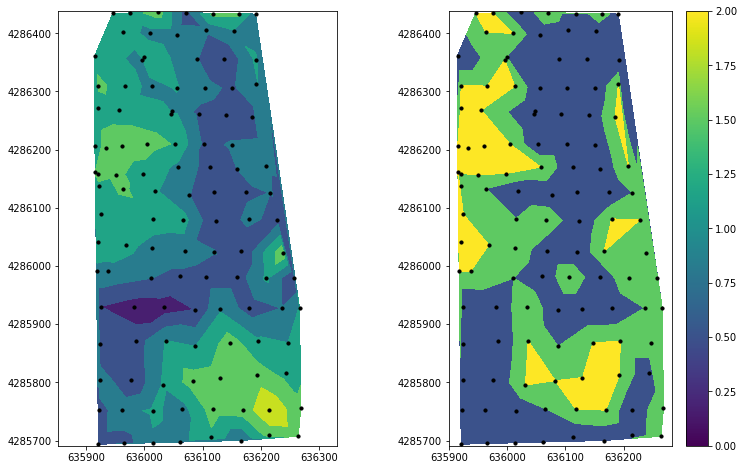
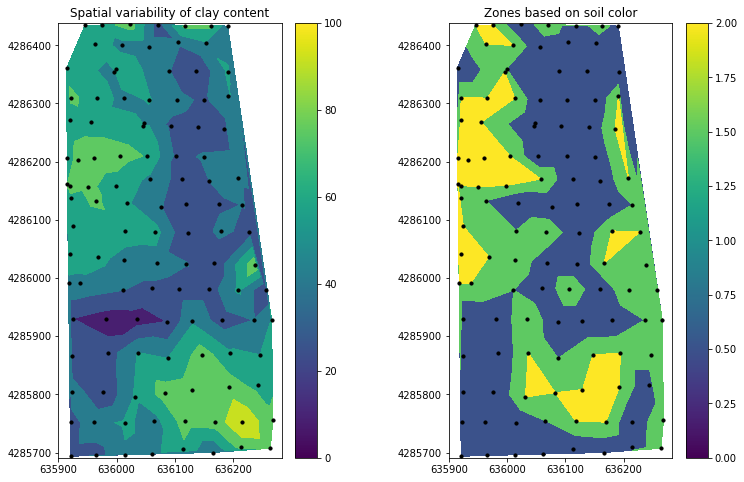
Updated field management zones

diff --git a/docs/field_management_zones.md b/docs/field_management_zones.md
@@ -314,7 +314,7 @@ X.head()
 
 ```python
 # Clustering
-k_zones = 3
+k_zones = 3 # An arbitrary but reasonable number of field management zones.
 y_pred = KMeans(n_clusters=k_zones, random_state=0).fit_predict(X)
 print(y_pred)
 
@@ -532,6 +532,8 @@ data
 
 
 ```python
+# Show correlations between variables. Let's add some soil texture
+# to see how sand and clay are related to the clusters.
 plt.figure(figsize=(8, 8))
 plt.subplot(221)
 plt.scatter(data['sand'], data['clay'], c=y_pred)
@@ -562,13 +564,18 @@ plt.show()
 
 
 ```python
+# Plot field managment zones
 plt.figure(figsize=(12,8))
 plt.subplot(121)
+plt.title('Spatial variability of clay content')
 plt.tricontourf(data['X'], data['Y'], data['clay'], levels=5)
 plt.scatter(data['X'], data['Y'], s=10, marker='o', facecolors='k')
 plt.axis('equal')
+plt.clim(0, 100)
+plt.colorbar()
 
 plt.subplot(122)
+plt.title('Zones based on soil color')
 plt.tricontourf(data['X'], data['Y'], data['clusters'], 
                 cmap="viridis", 
                 levels=[0,1,2], 
